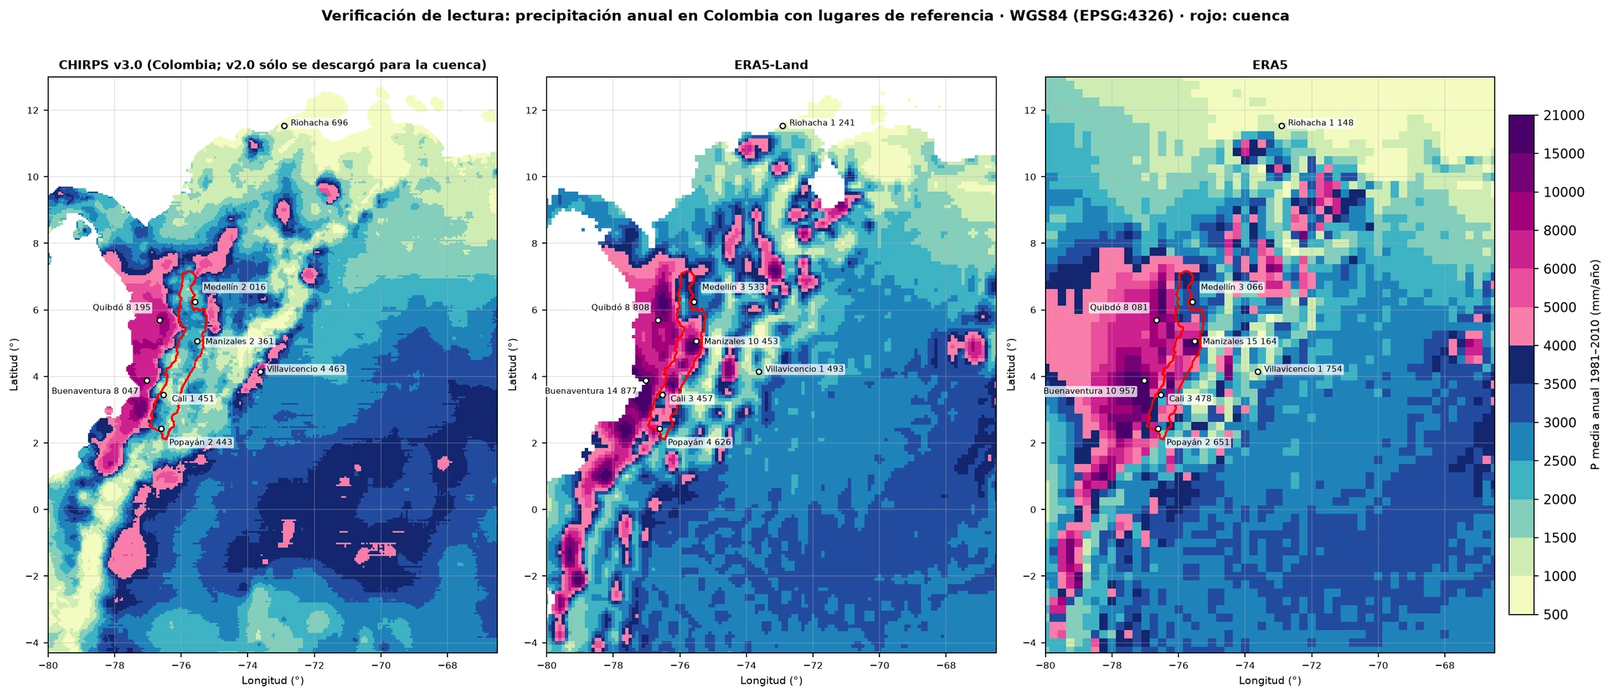
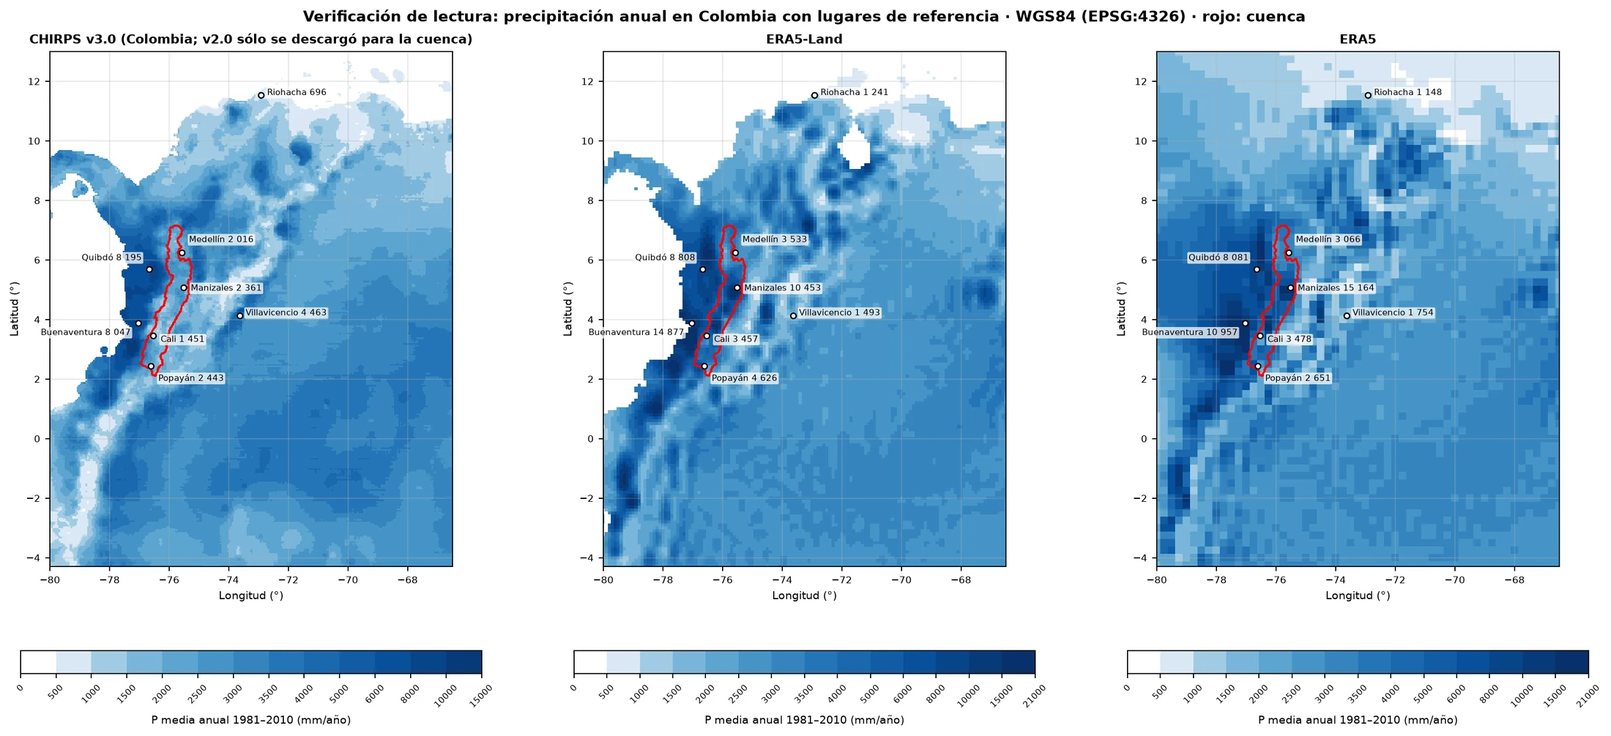
Escalas de color por variable con colores fijos por valor
- Precipitación (anual y mensual): sólo azules, blanco en 0; 1000 mm es el mismo tono en todos los mapas
- Cada barra de color llega sólo hasta el máximo de su mapa
- ETP (YlOrRd) y ETR (YlGn) con las mismas clases; R en verde-azul (GnBu)

diff --git a/index.html b/index.html
@@ -209,7 +209,7 @@ sobreestima la ETR, porque la curva no es lineal. La validación con caudales se
 usaron las estaciones con <b>15 años completos o más en 1981–2010</b>, el mismo periodo de la climatología. El área de drenaje de cada una
 se delimitó con el mismo DEM. El caudal medio anual multianual es el promedio de los años completos.</p>
 <h3>Decisiones</h3><ul class='dec'><li><b>Periodo 1981–2010.</b> el de la precipitación y la temperatura; además es anterior al llenado de Hidroituango (2019)</li><li><b>Faltantes sin rellenar.</b> no hay ceros ni negativos; las medias cambian 2 % o menos según el criterio de faltantes</li><li><b>La Pintada antes del río Arma.</b> entre Irra y La Pintada el caudal sólo sube 26 m³/s, menos de lo que aporta el Arma</li><li><b>Pte. Pescadero y Olaya excluidas.</b> sólo 10 años completos cada una</li></ul>
-</div></div><div class='tw'><table><caption>Ubicación, área de drenaje, periodo de registro y caudal medio anual multianual (1981–2010)</caption><thead><tr><th>Estación</th><th>Código</th><th>Municipio</th><th>Lat (°)</th><th>Lon (°)</th><th>Área (km²)</th><th>Inicio</th><th>Fin</th><th>Años 1981–2010</th><th>Q medio (m³/s)</th></tr></thead><tbody><tr><th>La Balsa</th><td>26027010</td><td>Buenos Aires</td><td class='n'>3.0917</td><td class='n'>-76.5991</td><td class='n'>5 075</td><td>1946-01-01</td><td>2025-04-10</td><td class='n'>22</td><td class='n'>178.9</td></tr><tr><th>Juanchito</th><td>26067010</td><td>Candelaria</td><td class='n'>3.4516</td><td class='n'>-76.4754</td><td class='n'>9 344</td><td>1945-10-01</td><td>2026-08-12</td><td class='n'>23</td><td class='n'>270.5</td></tr><tr><th>La Victoria</th><td>26107070</td><td>La Victoria</td><td class='n'>4.5167</td><td class='n'>-76.0333</td><td class='n'>16 285</td><td>1959-01-01</td><td>2026-08-08</td><td class='n'>24</td><td class='n'>368.8</td></tr><tr><th>La Virginia</th><td>26177030</td><td>La Virginia</td><td class='n'>4.8925</td><td class='n'>-75.8827</td><td class='n'>20 549</td><td>1946-10-01</td><td>2026-08-12</td><td class='n'>29</td><td class='n'>538.8</td></tr><tr><th>Irra</th><td>26167070</td><td>Neira</td><td class='n'>5.2683</td><td class='n'>-75.6642</td><td class='n'>24 571</td><td>1972-01-01</td><td>2026-08-12</td><td class='n'>27</td><td class='n'>663.4</td></tr><tr><th>La Pintada</th><td>26187110</td><td>La Pintada</td><td class='n'>5.7415</td><td class='n'>-75.6006</td><td class='n'>26 443</td><td>1965-01-01</td><td>2026-08-11</td><td class='n'>30</td><td class='n'>688.9</td></tr><tr><th>Pte. Iglesias</th><td>26207030</td><td>Fredonia</td><td class='n'>5.8299</td><td class='n'>-75.7055</td><td class='n'>29 005</td><td>1979-01-01</td><td>2026-08-11</td><td class='n'>23</td><td class='n'>755.0</td></tr><tr><th>Bolombolo</th><td>26207080</td><td>Venecia</td><td class='n'>5.9700</td><td class='n'>-75.8400</td><td class='n'>30 995</td><td>1971-10-01</td><td>2026-08-12</td><td class='n'>29</td><td class='n'>877.7</td></tr><tr><th>Cañafisto</th><td>26217050</td><td>Santa Fe De Antioquia</td><td class='n'>6.4173</td><td class='n'>-75.8196</td><td class='n'>32 704</td><td>1979-01-01</td><td>2025-08-31</td><td class='n'>27</td><td class='n'>912.3</td></tr><tr><th>Pto. Valdivia</th><td>26237040</td><td>Valdivia</td><td class='n'>7.2870</td><td class='n'>-75.3967</td><td class='n'>37 267</td><td>1960-01-01</td><td>2026-08-12</td><td class='n'>19</td><td class='n'>1 122.0</td></tr></tbody></table></div><figure class='fig'><button type='button' class='zoom' data-src='img/p8_disp.webp' aria-label='Ampliar: Disponibilidad de datos de las estaciones descargadas'><img src='img/p8_disp.webp' width='1600' height='1040' loading='lazy' alt='Disponibilidad de datos de las estaciones descargadas'></button><figcaption><b>Disponibilidad de datos de las estaciones descargadas.</b> Meses con al menos 80 % de días con dato. Verde: 15 años completos o más en 1981–2010 (validada); rojo: no cumple.</figcaption></figure><div class='plot serie alta' id='s_Q'></div><div class='pie'><p><b>Caudal medio mensual.</b> Seleccione una o varias estaciones en la leyenda; arrastre sobre el gráfico o use la barra inferior para acercarse a un periodo. La franja marca 1981–2010. El régimen es bimodal, con picos en mayo y noviembre. Los años más caudalosos (1999, 2008, 2010–11, 2022) coinciden con La Niña, con el máximo mensual en noviembre de 2010 (3167 m³/s en Pto. Valdivia); los más secos (1992, 2015–16) con El Niño.</p></div><div class='plot serie' id='s_qa'></div><div class='pie'><p><b>Caudal medio de cada año completo</b> (12 meses con al menos 80 % de días). El caudal medio multianual de cada estación es el promedio de estos años dentro de 1981–2010 (franja gris). Se ven los años húmedos de La Niña (1999, 2008, 2010–2011) y secos de El Niño (1992, 2015–2016) en todas las estaciones a la vez.</p></div></section><section role="tabpanel" id="p9" aria-labelledby="t-p9" hidden><h2>9. Balance hídrico</h2><div class='figs c1'><figure class='fig'><button type='button' class='zoom' data-src='img/p9_panel.webp' aria-label='Ampliar: Balance hídrico de largo plazo celda a celda'><img src='img/p9_panel.webp' width='2400' height='1322' loading='lazy' alt='Balance hídrico de largo plazo celda a celda'></button><figcaption><b>Balance hídrico de largo plazo celda a celda.</b> ETP (Hargreaves), índice de aridez φ, ETR (Budyko) y escorrentía R = P − ETR.</figcaption></figure></div><div class='cols'>
+</div></div><div class='tw'><table><caption>Ubicación, área de drenaje, periodo de registro y caudal medio anual multianual (1981–2010)</caption><thead><tr><th>Estación</th><th>Código</th><th>Municipio</th><th>Lat (°)</th><th>Lon (°)</th><th>Área (km²)</th><th>Inicio</th><th>Fin</th><th>Años 1981–2010</th><th>Q medio (m³/s)</th></tr></thead><tbody><tr><th>La Balsa</th><td>26027010</td><td>Buenos Aires</td><td class='n'>3.0917</td><td class='n'>-76.5991</td><td class='n'>5 075</td><td>1946-01-01</td><td>2025-04-10</td><td class='n'>22</td><td class='n'>178.9</td></tr><tr><th>Juanchito</th><td>26067010</td><td>Candelaria</td><td class='n'>3.4516</td><td class='n'>-76.4754</td><td class='n'>9 344</td><td>1945-10-01</td><td>2026-08-12</td><td class='n'>23</td><td class='n'>270.5</td></tr><tr><th>La Victoria</th><td>26107070</td><td>La Victoria</td><td class='n'>4.5167</td><td class='n'>-76.0333</td><td class='n'>16 285</td><td>1959-01-01</td><td>2026-08-08</td><td class='n'>24</td><td class='n'>368.8</td></tr><tr><th>La Virginia</th><td>26177030</td><td>La Virginia</td><td class='n'>4.8925</td><td class='n'>-75.8827</td><td class='n'>20 549</td><td>1946-10-01</td><td>2026-08-12</td><td class='n'>29</td><td class='n'>538.8</td></tr><tr><th>Irra</th><td>26167070</td><td>Neira</td><td class='n'>5.2683</td><td class='n'>-75.6642</td><td class='n'>24 571</td><td>1972-01-01</td><td>2026-08-12</td><td class='n'>27</td><td class='n'>663.4</td></tr><tr><th>La Pintada</th><td>26187110</td><td>La Pintada</td><td class='n'>5.7415</td><td class='n'>-75.6006</td><td class='n'>26 443</td><td>1965-01-01</td><td>2026-08-11</td><td class='n'>30</td><td class='n'>688.9</td></tr><tr><th>Pte. Iglesias</th><td>26207030</td><td>Fredonia</td><td class='n'>5.8299</td><td class='n'>-75.7055</td><td class='n'>29 005</td><td>1979-01-01</td><td>2026-08-11</td><td class='n'>23</td><td class='n'>755.0</td></tr><tr><th>Bolombolo</th><td>26207080</td><td>Venecia</td><td class='n'>5.9700</td><td class='n'>-75.8400</td><td class='n'>30 995</td><td>1971-10-01</td><td>2026-08-12</td><td class='n'>29</td><td class='n'>877.7</td></tr><tr><th>Cañafisto</th><td>26217050</td><td>Santa Fe De Antioquia</td><td class='n'>6.4173</td><td class='n'>-75.8196</td><td class='n'>32 704</td><td>1979-01-01</td><td>2025-08-31</td><td class='n'>27</td><td class='n'>912.3</td></tr><tr><th>Pto. Valdivia</th><td>26237040</td><td>Valdivia</td><td class='n'>7.2870</td><td class='n'>-75.3967</td><td class='n'>37 267</td><td>1960-01-01</td><td>2026-08-12</td><td class='n'>19</td><td class='n'>1 122.0</td></tr></tbody></table></div><figure class='fig'><button type='button' class='zoom' data-src='img/p8_disp.webp' aria-label='Ampliar: Disponibilidad de datos de las estaciones descargadas'><img src='img/p8_disp.webp' width='1600' height='1040' loading='lazy' alt='Disponibilidad de datos de las estaciones descargadas'></button><figcaption><b>Disponibilidad de datos de las estaciones descargadas.</b> Meses con al menos 80 % de días con dato. Verde: 15 años completos o más en 1981–2010 (validada); rojo: no cumple.</figcaption></figure><div class='plot serie alta' id='s_Q'></div><div class='pie'><p><b>Caudal medio mensual.</b> Seleccione una o varias estaciones en la leyenda; arrastre sobre el gráfico o use la barra inferior para acercarse a un periodo. La franja marca 1981–2010. El régimen es bimodal, con picos en mayo y noviembre. Los años más caudalosos (1999, 2008, 2010–11, 2022) coinciden con La Niña, con el máximo mensual en noviembre de 2010 (3167 m³/s en Pto. Valdivia); los más secos (1992, 2015–16) con El Niño.</p></div><div class='plot serie' id='s_qa'></div><div class='pie'><p><b>Caudal medio de cada año completo</b> (12 meses con al menos 80 % de días). El caudal medio multianual de cada estación es el promedio de estos años dentro de 1981–2010 (franja gris). Se ven los años húmedos de La Niña (1999, 2008, 2010–2011) y secos de El Niño (1992, 2015–2016) en todas las estaciones a la vez.</p></div></section><section role="tabpanel" id="p9" aria-labelledby="t-p9" hidden><h2>9. Balance hídrico</h2><div class='figs c1'><figure class='fig'><button type='button' class='zoom' data-src='img/p9_panel.webp' aria-label='Ampliar: Balance hídrico de largo plazo celda a celda'><img src='img/p9_panel.webp' width='2400' height='1342' loading='lazy' alt='Balance hídrico de largo plazo celda a celda'></button><figcaption><b>Balance hídrico de largo plazo celda a celda.</b> ETP (Hargreaves), índice de aridez φ, ETR (Budyko) y escorrentía R = P − ETR.</figcaption></figure></div><div class='cols'>
 <p class="lead">Con ΔS ≈ 0 en 30 años, R = P − ETR. En la presa: Q estimado <b>1026 m³/s</b> frente a
 1020–1084 m³/s observados.</p>
 <p>Para cada estación se promediaron P y ETR en su área de drenaje y se calculó Q<sub>est</sub> = (P − ETR)·A. Q observado en la presa:
@@ -244,14 +244,14 @@ de CHIRPS para 1980.</p>
 (≈ 5 900 mm) la triplican. ERA5-Land y ERA5 dan casi lo mismo porque la precipitación de ERA5-Land
 es la de ERA5 llevada a una grilla más fina. La media cambia menos de 3 % entre periodos, así que la elección del periodo pesa poco
 frente a la elección del producto.</p>
-</div></div><div class='plot serie' id='s_prod'></div><div class='pie'><p><b>Precipitación anual promedio de la cuenca, 1981–2025.</b> La línea punteada es la media IDEAM 1981–2010 y la franja marca el periodo seleccionado. CHIRPS reproduce los años extremos que muestran los caudales del punto 8 (1991–1992 y 2015 secos; 1999, 2008, 2011 y 2022 húmedos). ERA5 y ERA5-Land no: sus años más secos son 2018–2019 y los más húmedos 1988 y 1998. La correlación de la lluvia anual entre CHIRPS y los reanálisis es de solo 0.4 a 0.6.</p></div></section><section role="tabpanel" id="p11" aria-labelledby="t-p11" hidden><h2>11. Mapas de precipitación por producto</h2><div class='figs c1'><figure class='fig'><button type='button' class='zoom' data-src='img/p11_panel.webp' aria-label='Ampliar: Precipitación media anual multianual 1981–2010'><img src='img/p11_panel.webp' width='2400' height='1580' loading='lazy' alt='Precipitación media anual multianual 1981–2010'></button><figcaption><b>Precipitación media anual multianual 1981–2010.</b> IDEAM (kriging, punto 3) como referencia y los tres productos en su resolución original, con la misma escala de color.</figcaption></figure></div><div class='cols'>
+</div></div><div class='plot serie' id='s_prod'></div><div class='pie'><p><b>Precipitación anual promedio de la cuenca, 1981–2025.</b> La línea punteada es la media IDEAM 1981–2010 y la franja marca el periodo seleccionado. CHIRPS reproduce los años extremos que muestran los caudales del punto 8 (1991–1992 y 2015 secos; 1999, 2008, 2011 y 2022 húmedos). ERA5 y ERA5-Land no: sus años más secos son 2018–2019 y los más húmedos 1988 y 1998. La correlación de la lluvia anual entre CHIRPS y los reanálisis es de solo 0.4 a 0.6.</p></div></section><section role="tabpanel" id="p11" aria-labelledby="t-p11" hidden><h2>11. Mapas de precipitación por producto</h2><div class='figs c1'><figure class='fig'><button type='button' class='zoom' data-src='img/p11_panel.webp' aria-label='Ampliar: Precipitación media anual multianual 1981–2010'><img src='img/p11_panel.webp' width='2400' height='1420' loading='lazy' alt='Precipitación media anual multianual 1981–2010'></button><figcaption><b>Precipitación media anual multianual 1981–2010.</b> IDEAM (kriging, punto 3) como referencia y los tres productos en su resolución original, con la misma escala de color.</figcaption></figure></div><div class='cols'>
 <p class="lead">Precipitación media de la cuenca 1981–2010: IDEAM 1 985 mm, CHIRPS
 <b>2 026 mm</b>, ERA5-Land <b>5 961 mm</b> y ERA5
 <b>5 976 mm</b>.</p>
 <h3>Metodología</h3>
 <p>Para cada producto se sumaron los 12 meses de cada año y se promediaron los 30 años de 1981–2010 en su grilla original. Luego cada
 celda de 90 m de la cuenca tomó el valor de la celda del producto que la contiene (vecino más cercano, sin suavizar).</p>
-<h3>Decisiones</h3><ul class='dec'><li><b>Sin interpolar los productos.</b> el mapa muestra la resolución real de cada uno (5.5, 11 y 28 km); suavizar daría un detalle que el producto no tiene</li><li><b>Misma grilla de 90 m que la ETP.</b> el punto 12 repite el balance celda a celda cambiando sólo la precipitación</li><li><b>Escala de color común por variable.</b> la misma paleta y clases en todos los mapas de P anual del trabajo (puntos 3, 11 y 12); de 500 a 4000 mm amarillo→azul y sobre 4000 mm (sólo los reanálisis, hasta 20 000 mm) morados, para no perder el detalle de las estaciones</li></ul>
+<h3>Decisiones</h3><ul class='dec'><li><b>Sin interpolar los productos.</b> el mapa muestra la resolución real de cada uno (5.5, 11 y 28 km); suavizar daría un detalle que el producto no tiene</li><li><b>Misma grilla de 90 m que la ETP.</b> el punto 12 repite el balance celda a celda cambiando sólo la precipitación</li><li><b>Escala de color común por variable.</b> cada valor tiene el mismo color en todos los mapas de P (de blanco en 0 a azul oscuro): 1000 mm es el mismo tono en IDEAM, CHIRPS y ERA5. Cada barra llega sólo hasta el máximo de su mapa</li></ul>
 <div class='tw'><table><caption>Comparación con la precipitación de estaciones IDEAM</caption><thead><tr><th>1981–2010</th><th>P media (mm/año)</th><th>Mínimo (mm/año)</th><th>Máximo (mm/año)</th><th>Diferencia con IDEAM (%)</th><th>Correlación espacial con IDEAM</th></tr></thead><tbody><tr><th>IDEAM (kriging)</th><td class='n'>1 985</td><td class='n'>872</td><td class='n'>3 441</td><td class='n'>+0</td><td class='n'>1.00</td></tr><tr><th>CHIRPS v2.0</th><td class='n'>2 026</td><td class='n'>1 030</td><td class='n'>3 700</td><td class='n'>+2</td><td class='n'>0.89</td></tr><tr><th>ERA5-Land</th><td class='n'>5 961</td><td class='n'>1 681</td><td class='n'>20 177</td><td class='n'>+200</td><td class='n'>-0.06</td></tr><tr><th>ERA5</th><td class='n'>5 976</td><td class='n'>1 833</td><td class='n'>18 313</td><td class='n'>+201</td><td class='n'>-0.06</td></tr></tbody></table></div>
 <h3>Análisis</h3>
 <p><b>CHIRPS</b> reproduce el patrón de las estaciones (correlación espacial 0.89) y su
@@ -260,7 +260,7 @@ magnitud (+2 %): fondo del Valle seco, ladera occidental del alto Cauca y Eje Ca
 <p><b>ERA5 y ERA5-Land</b> triplican la lluvia y no tienen relación espacial con las estaciones (correlación −0.06). Sus máximos, de más
 de 8000 mm/año, caen sobre el fondo del Valle del Cauca y el Eje Cafetero, justo donde las estaciones miden 1000 a 2000 mm. Es un sesgo
 conocido de los reanálisis en montaña tropical, donde la convección se parametriza y la orografía se suaviza a 28 km. ERA5-Land no lo
-corrige porque su precipitación es la de ERA5 llevada a una grilla más fina.</p></div><figure class='fig'><button type='button' class='zoom' data-src='img/p11_razon.webp' aria-label='Ampliar: Razón entre cada producto y la precipitación IDEAM'><img src='img/p11_razon.webp' width='2000' height='1715' loading='lazy' alt='Razón entre cada producto y la precipitación IDEAM'></button><figcaption><b>Razón entre cada producto y la precipitación IDEAM.</b> Azul: el producto subestima; rojo: sobreestima. Los reanálisis llegan a 5 veces la lluvia de las estaciones en el Valle del Cauca.</figcaption></figure><div class='fila'><div class='figcol'><figure class='fig'><button type='button' class='zoom' data-src='img/p11_verif.webp' aria-label='Ampliar: Verificación de lectura en toda Colombia'><img src='img/p11_verif.webp' width='2200' height='951' loading='lazy' alt='Verificación de lectura en toda Colombia'></button><figcaption><b>Verificación de lectura en toda Colombia.</b> Precipitación anual 1981–2010 de cada archivo en el dominio completo, con la cuenca en rojo y lugares de referencia.</figcaption></figure></div><div class='texto'>
+corrige porque su precipitación es la de ERA5 llevada a una grilla más fina.</p></div><figure class='fig'><button type='button' class='zoom' data-src='img/p11_razon.webp' aria-label='Ampliar: Razón entre cada producto y la precipitación IDEAM'><img src='img/p11_razon.webp' width='2000' height='1715' loading='lazy' alt='Razón entre cada producto y la precipitación IDEAM'></button><figcaption><b>Razón entre cada producto y la precipitación IDEAM.</b> Azul: el producto subestima; rojo: sobreestima. Los reanálisis llegan a 5 veces la lluvia de las estaciones en el Valle del Cauca.</figcaption></figure><div class='fila'><div class='figcol'><figure class='fig'><button type='button' class='zoom' data-src='img/p11_verif.webp' aria-label='Ampliar: Verificación de lectura en toda Colombia'><img src='img/p11_verif.webp' width='2200' height='1006' loading='lazy' alt='Verificación de lectura en toda Colombia'></button><figcaption><b>Verificación de lectura en toda Colombia.</b> Precipitación anual 1981–2010 de cada archivo en el dominio completo, con la cuenca en rojo y lugares de referencia.</figcaption></figure></div><div class='texto'>
 <h3>Verificación de los archivos</h3>
 <p>Antes de interpretar el sesgo de los reanálisis se comprobó que los archivos se leyeron en la posición correcta. En los tres el máximo
 nacional está en la costa Pacífica y coinciden en Quibdó (≈ 8 100–8 800 mm/año), La Guajira es seca (Riohacha 700–1 250 mm) y al invertir la
@@ -297,7 +297,7 @@ lluvia se vuelve escorrentía. Por eso CHIRPS v3.0, con 11 % más lluvia que v2.
 <p>Conclusión: para el balance hídrico de esta cuenca CHIRPS representa mejor las condiciones observadas; los reanálisis sólo servirían con
 una corrección de sesgo basada en estaciones.</p>
 </div></div>
-<div class='tw'><table><caption>Error del caudal estimado por área de drenaje y producto</caption><thead><tr><th>Error del caudal (%)</th><th>IDEAM</th><th>CHIRPS v2.0</th><th>ERA5-Land</th><th>ERA5</th></tr></thead><tbody><tr><th>La Balsa</th><td class='n'>+7.0</td><td class='n'>+3.9</td><td class='n'>+182.8</td><td class='n'>+157.4</td></tr><tr><th>Juanchito</th><td class='n'>+5.4</td><td class='n'>+3.1</td><td class='n'>+264.0</td><td class='n'>+246.7</td></tr><tr><th>La Victoria</th><td class='n'>+4.9</td><td class='n'>+10.2</td><td class='n'>+543.2</td><td class='n'>+535.3</td></tr><tr><th>La Virginia</th><td class='n'>-6.7</td><td class='n'>-4.0</td><td class='n'>+486.8</td><td class='n'>+473.5</td></tr><tr><th>Irra</th><td class='n'>-3.5</td><td class='n'>-0.9</td><td class='n'>+556.5</td><td class='n'>+562.2</td></tr><tr><th>La Pintada</th><td class='n'>+1.7</td><td class='n'>+4.1</td><td class='n'>+572.9</td><td class='n'>+576.5</td></tr><tr><th>Pte. Iglesias</th><td class='n'>+6.7</td><td class='n'>+10.2</td><td class='n'>+541.3</td><td class='n'>+543.3</td></tr><tr><th>Bolombolo</th><td class='n'>+1.1</td><td class='n'>+4.9</td><td class='n'>+468.8</td><td class='n'>+472.1</td></tr><tr><th>Cañafisto</th><td class='n'>+3.1</td><td class='n'>+6.7</td><td class='n'>+455.7</td><td class='n'>+460.0</td></tr><tr><th>Hidroituango</th><td class='n'>-5.3</td><td class='n'>-2.2</td><td class='n'>+390.3</td><td class='n'>+392.4</td></tr></tbody></table></div><div class='plot serie' id='s_p12'></div><div class='pie'><p><b>Q estimado / Q observado por área de drenaje</b> (escala logarítmica). 1 = balance perfecto; la franja marca ±10 %. Haga clic en la leyenda para mostrar u ocultar productos.</p></div><div class='plot serie' id='s_bud'></div><div class='pie'><p><b>Áreas de drenaje en el espacio de Budyko con la ETR «observada» = P − Q<sub>obs</sub>.</b> Sobre la curva, la lluvia del producto es coherente con el caudal; por encima del límite de energía (línea punteada) el balance no puede cerrar. El cursor muestra la corrección de P necesaria.</p></div><figure class='fig'><button type='button' class='zoom' data-src='img/p12_R.webp' aria-label='Ampliar: Escorrentía de largo plazo R = P − ETR con cada producto'><img src='img/p12_R.webp' width='2200' height='1495' loading='lazy' alt='Escorrentía de largo plazo R = P − ETR con cada producto'></button><figcaption><b>Escorrentía de largo plazo R = P − ETR con cada producto.</b> Misma ETP de Hargreaves para todos; las diferencias vienen sólo de la precipitación. Compárese con los rendimientos observados del punto 8.</figcaption></figure>
+<div class='tw'><table><caption>Error del caudal estimado por área de drenaje y producto</caption><thead><tr><th>Error del caudal (%)</th><th>IDEAM</th><th>CHIRPS v2.0</th><th>ERA5-Land</th><th>ERA5</th></tr></thead><tbody><tr><th>La Balsa</th><td class='n'>+7.0</td><td class='n'>+3.9</td><td class='n'>+182.8</td><td class='n'>+157.4</td></tr><tr><th>Juanchito</th><td class='n'>+5.4</td><td class='n'>+3.1</td><td class='n'>+264.0</td><td class='n'>+246.7</td></tr><tr><th>La Victoria</th><td class='n'>+4.9</td><td class='n'>+10.2</td><td class='n'>+543.2</td><td class='n'>+535.3</td></tr><tr><th>La Virginia</th><td class='n'>-6.7</td><td class='n'>-4.0</td><td class='n'>+486.8</td><td class='n'>+473.5</td></tr><tr><th>Irra</th><td class='n'>-3.5</td><td class='n'>-0.9</td><td class='n'>+556.5</td><td class='n'>+562.2</td></tr><tr><th>La Pintada</th><td class='n'>+1.7</td><td class='n'>+4.1</td><td class='n'>+572.9</td><td class='n'>+576.5</td></tr><tr><th>Pte. Iglesias</th><td class='n'>+6.7</td><td class='n'>+10.2</td><td class='n'>+541.3</td><td class='n'>+543.3</td></tr><tr><th>Bolombolo</th><td class='n'>+1.1</td><td class='n'>+4.9</td><td class='n'>+468.8</td><td class='n'>+472.1</td></tr><tr><th>Cañafisto</th><td class='n'>+3.1</td><td class='n'>+6.7</td><td class='n'>+455.7</td><td class='n'>+460.0</td></tr><tr><th>Hidroituango</th><td class='n'>-5.3</td><td class='n'>-2.2</td><td class='n'>+390.3</td><td class='n'>+392.4</td></tr></tbody></table></div><div class='plot serie' id='s_p12'></div><div class='pie'><p><b>Q estimado / Q observado por área de drenaje</b> (escala logarítmica). 1 = balance perfecto; la franja marca ±10 %. Haga clic en la leyenda para mostrar u ocultar productos.</p></div><div class='plot serie' id='s_bud'></div><div class='pie'><p><b>Áreas de drenaje en el espacio de Budyko con la ETR «observada» = P − Q<sub>obs</sub>.</b> Sobre la curva, la lluvia del producto es coherente con el caudal; por encima del límite de energía (línea punteada) el balance no puede cerrar. El cursor muestra la corrección de P necesaria.</p></div><figure class='fig'><button type='button' class='zoom' data-src='img/p12_R.webp' aria-label='Ampliar: Escorrentía de largo plazo R = P − ETR con cada producto'><img src='img/p12_R.webp' width='2200' height='1370' loading='lazy' alt='Escorrentía de largo plazo R = P − ETR con cada producto'></button><figcaption><b>Escorrentía de largo plazo R = P − ETR con cada producto.</b> Misma ETP de Hargreaves para todos; las diferencias vienen sólo de la precipitación. Compárese con los rendimientos observados del punto 8.</figcaption></figure>
 <h3>Sensibilidad a la versión de CHIRPS</h3>
 <div class="dos"><div>
 <p>El Drive del curso trae <b>CHIRPS v3.0</b>. Con esa versión la lluvia de la cuenca queda +11 %
@@ -309,7 +309,7 @@ ser la versión publicada y porque cierra el balance con los caudales observados
 </div><div>
 <div class='tw'><table><caption>CHIRPS v2.0 (principal) frente a v3.0 (Drive del curso), 1981–2010</caption><thead><tr><th>CHIRPS v2.0 (principal) frente a v3.0 (Drive del curso)</th><th>CHIRPS v2.0</th><th>CHIRPS v3.0</th></tr></thead><tbody><tr><th>P media cuenca (mm/año)</th><td class='n'>2 026.22</td><td class='n'>2 201.77</td></tr><tr><th>Diferencia con IDEAM (%)</th><td class='n'>2.07</td><td class='n'>10.91</td></tr><tr><th>Correlación espacial con IDEAM</th><td class='n'>0.89</td><td class='n'>0.89</td></tr><tr><th>ETR cuenca (mm/año)</th><td class='n'>1 096.55</td><td class='n'>1 117.67</td></tr><tr><th>Q estimado cierre (mm/año)</th><td class='n'>929.67</td><td class='n'>1 084.10</td></tr><tr><th>Error en el cierre (%)</th><td class='n'>-2.16</td><td class='n'>14.10</td></tr><tr><th>Error abs. medio estaciones (%)</th><td class='n'>5.34</td><td class='n'>24.27</td></tr><tr><th>Rango de error estaciones (%)</th><td>-4 a +10</td><td>+15 a +32</td></tr><tr><th>Ciclo: sesgo (mm/mes)</th><td class='n'>2.37</td><td class='n'>17.00</td></tr><tr><th>Ciclo: RMSE (mm/mes)</th><td class='n'>4.77</td><td class='n'>17.82</td></tr><tr><th>Ciclo: r</th><td class='n'>1.00</td><td class='n'>1.00</td></tr></tbody></table></div>
 </div></div>
-<figure class='fig'><button type='button' class='zoom' data-src='img/p12_chirps_v2.webp' aria-label='Ampliar: CHIRPS v3.0 frente a v2.0'><img src='img/p12_chirps_v2.webp' width='2200' height='1734' loading='lazy' alt='CHIRPS v3.0 frente a v2.0'></button><figcaption><b>CHIRPS v3.0 frente a v2.0.</b> Precipitación media anual 1981–2010 de cada versión en su resolución original y diferencia relativa entre ellas.</figcaption></figure></section><section role="tabpanel" id="p13" aria-labelledby="t-p13" hidden><h2>13. Climatología de la precipitación</h2><div class='figs c1'><figure class='fig'><button type='button' class='zoom' data-src='img/p13_panel.webp' aria-label='Ampliar: Precipitación media mensual multianual 1981–2010'><img src='img/p13_panel.webp' width='2400' height='1825' loading='lazy' alt='Precipitación media mensual multianual 1981–2010'></button><figcaption><b>Precipitación media mensual multianual 1981–2010.</b> Kriging ordinario mes a mes con las 266 estaciones IDEAM del punto 3; misma escala de clases en los doce mapas; en el título de cada mapa, la media de la cuenca (P̄m).</figcaption></figure></div><div class='cols'>
+<figure class='fig'><button type='button' class='zoom' data-src='img/p12_chirps_v2.webp' aria-label='Ampliar: CHIRPS v3.0 frente a v2.0'><img src='img/p12_chirps_v2.webp' width='2200' height='1724' loading='lazy' alt='CHIRPS v3.0 frente a v2.0'></button><figcaption><b>CHIRPS v3.0 frente a v2.0.</b> Precipitación media anual 1981–2010 de cada versión en su resolución original y diferencia relativa entre ellas.</figcaption></figure></section><section role="tabpanel" id="p13" aria-labelledby="t-p13" hidden><h2>13. Climatología de la precipitación</h2><div class='figs c1'><figure class='fig'><button type='button' class='zoom' data-src='img/p13_panel.webp' aria-label='Ampliar: Precipitación media mensual multianual 1981–2010'><img src='img/p13_panel.webp' width='2400' height='1825' loading='lazy' alt='Precipitación media mensual multianual 1981–2010'></button><figcaption><b>Precipitación media mensual multianual 1981–2010.</b> Kriging ordinario mes a mes con las 266 estaciones IDEAM del punto 3; misma escala de clases en los doce mapas; en el título de cada mapa, la media de la cuenca (P̄m).</figcaption></figure></div><div class='cols'>
 <p class="lead">Régimen <b>bimodal</b>: dos temporadas de lluvia, marzo–mayo (máximo en abril, 218 mm) y
 septiembre–noviembre (máximo en octubre, 240 mm, el mes más lluvioso), separadas por dos temporadas secas,
 diciembre–febrero (120 mm en febrero) y junio–agosto (114 mm en agosto, el mes
